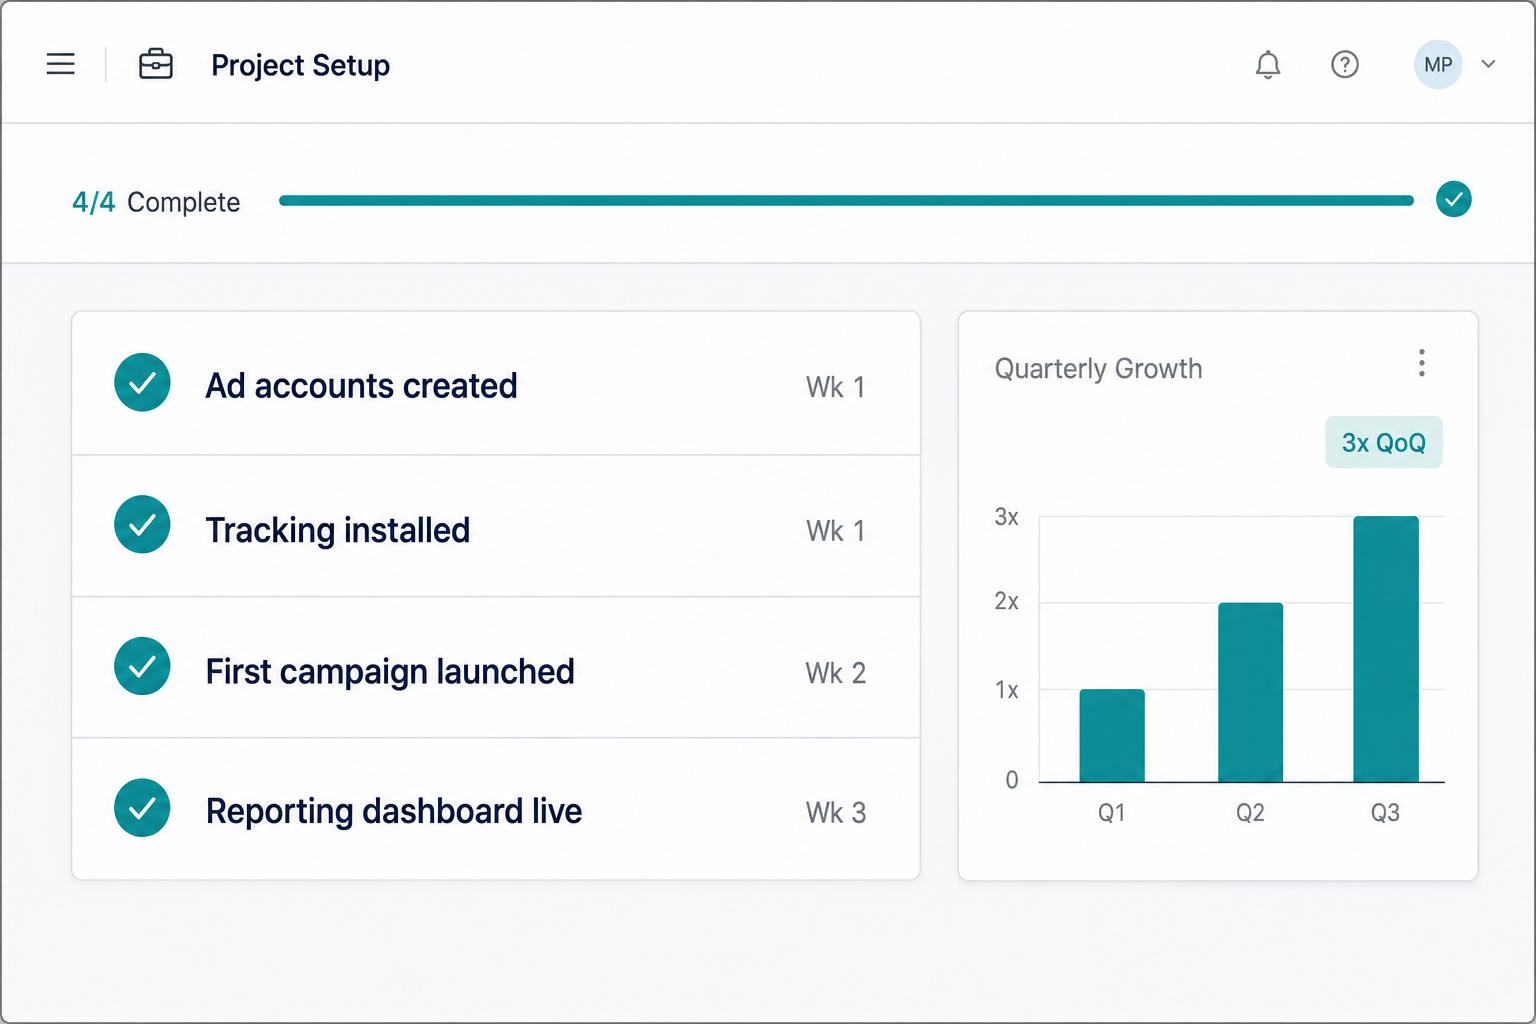
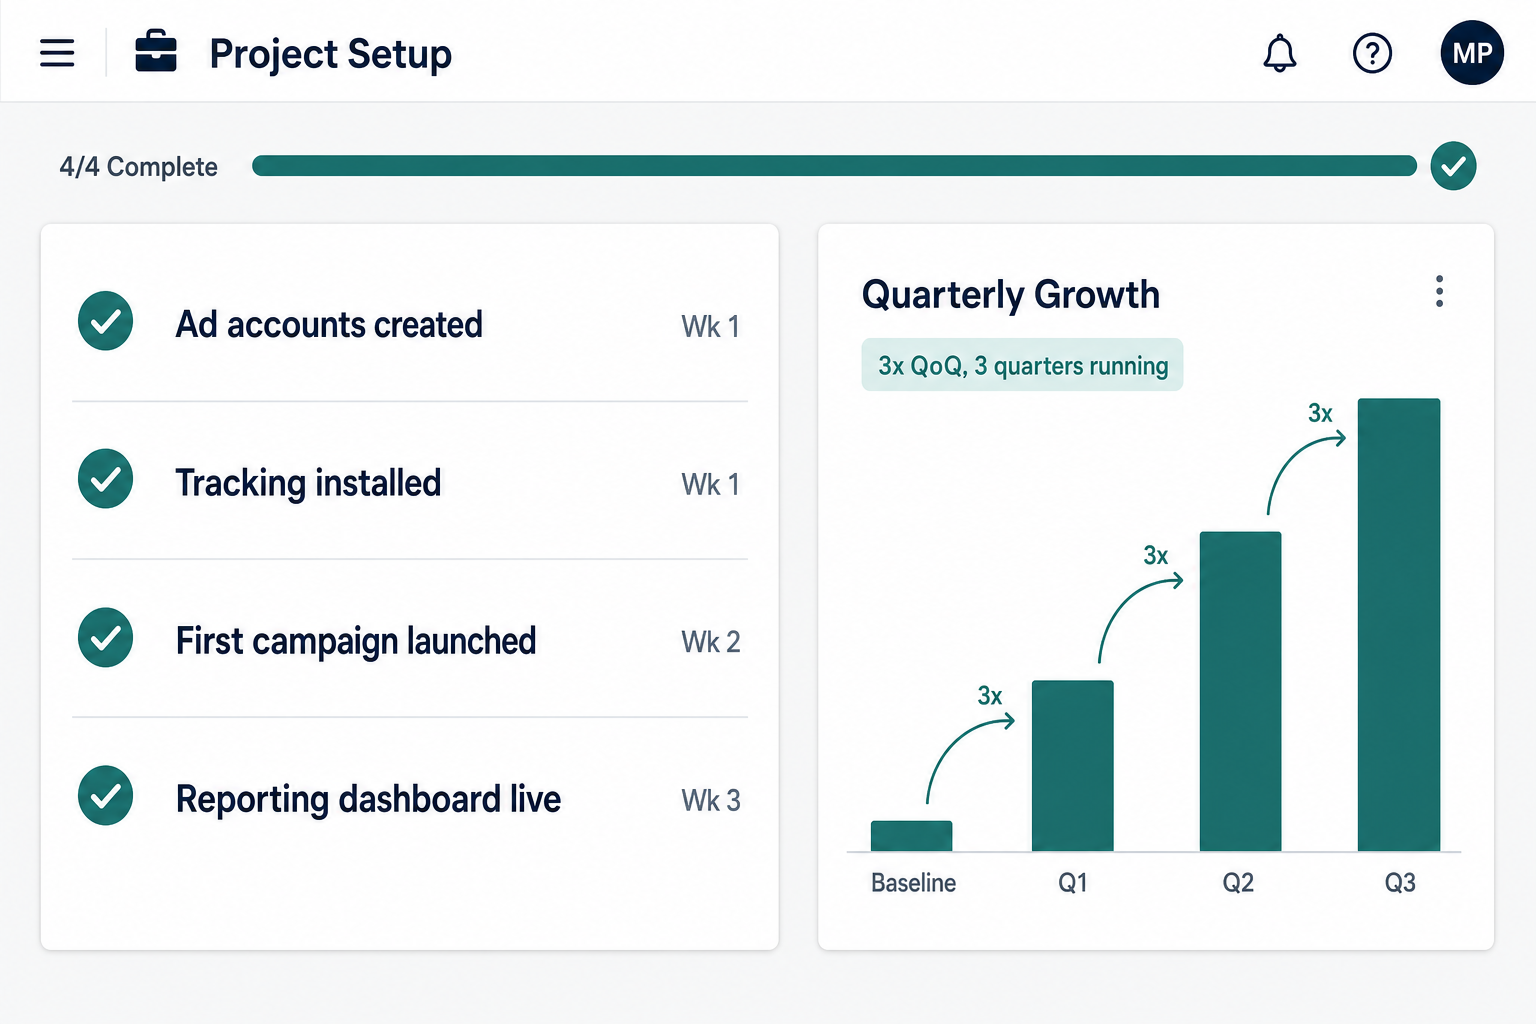
Fix growth chart to show compounding 3x per quarter, not a linear ramp.
The old bars (1x, 2x, 3x) implied a single 3x increase over three
quarters. The outcome is three consecutive quarters that each grew 3x,
so the chart now shows compounding bars with 3x multiplier callouts
between each quarter.

diff --git a/src/content/case-studies.ts b/src/content/case-studies.ts
@@ -125,7 +125,7 @@ export const caseStudies: CaseStudy[] = [
     featured: true,
     coverImage: "/case-studies/telehealth-growth.png",
     coverImageAlt:
-      "Project setup checklist showing completed foundational tasks alongside a quarterly growth dashboard widget with a 3x QoQ badge",
+      "Project setup checklist showing completed foundational tasks alongside a quarterly growth dashboard widget with bars compounding 3x each quarter",
   },
   {
     slug: "interim-executive-leadership",
